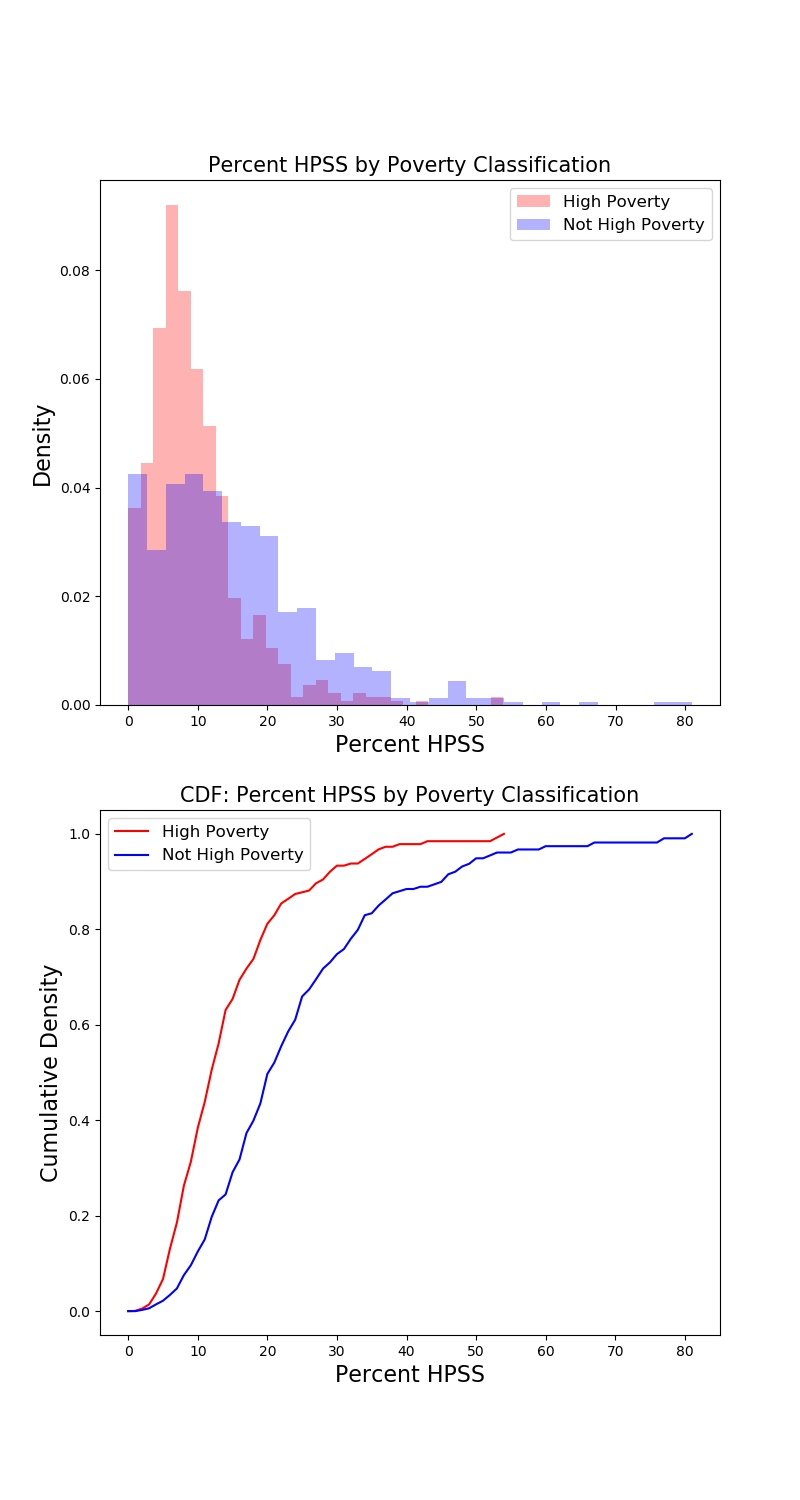
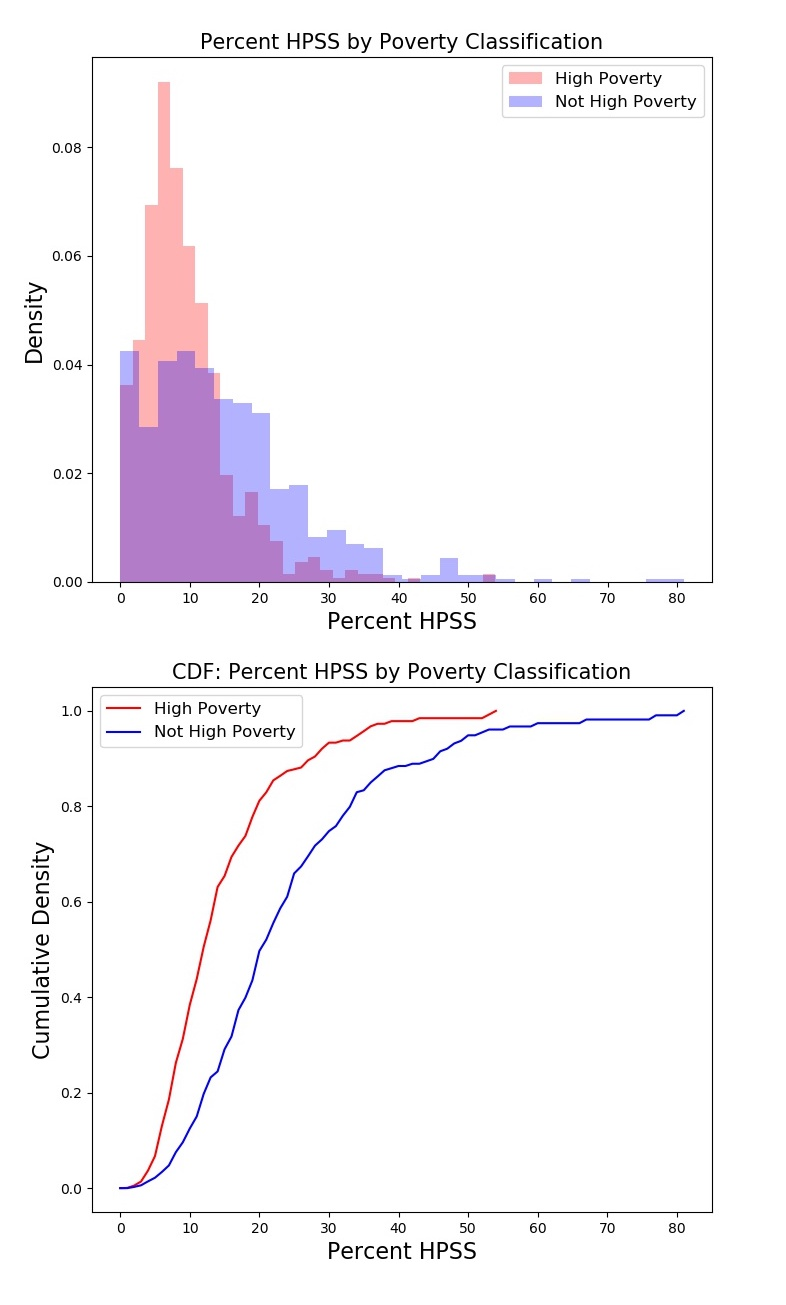
formatting

diff --git a/src/hypo_testing_supermarket.py b/src/hypo_testing_supermarket.py
@@ -19,13 +19,14 @@ colors = ['blue', 'red']
 
 overlay_histograms(ax[0], data, labels, colors, xlabel = 'Vehicle Availability (%)', title = 'Vehicle Availability by Supermarket Access')
 ax[0].set_ylabel('Density', fontsize = 14)
+ax[0].set_xlabel('Vehicle Availability (%)', fontsize = 14)
 
 dfs_c = [sprmkt_access, no_sprmkt_access]
 columns_c = ['pct_vehicle_avail', 'pct_vehicle_avail']
 labels_c = ['Supermarket within 0.5 mi', 'No Supermarket within 0.5 mi']
 
 overlay_plots(ax[1], dfs_c, columns_c, labels_c, colors, 'CDF: Poverty Percentage Based on Supermarket Access')
-ax[1].set_xlabel('Vehicle Availability (%)', fontsize = 20)
+ax[1].set_xlabel('Vehicle Availability (%)', fontsize = 14)
 ax[1].set_ylabel('Cumulative Density', fontsize = 14)
 
 # fig.savefig('../images/pdfandcdf_pct_vehicle_by_supermarket.jpeg')
@@ -39,7 +40,7 @@ fig, ax = plt.subplots(figsize = (10, 10))
 num_bs_samps = 5000
 conf_level = 0.95
 plot_bs_sample_diffs(ax, no_sprmkt_access['pct_vehicle_avail'], sprmkt_access['pct_vehicle_avail'], num_bs_samps, np.mean, conf_level, 'Comparison of Mean Vehicle Availability based on Supermarket Access', 'Difference in Bootstrap Sample Means: \n Sample1: Supermarket Access (within 0.5 mi) | Sample 2: No Supermarket Access')
-
+ax.set_ylabel('Density', fontsize = 14)
 fig.tight_layout()
 # fig.savefig('../images/Veh_avail_supermarkets_compare_means.jpeg')
 plt.show()

diff --git a/README.md b/README.md
@@ -53,7 +53,7 @@ When exploring the data, I quickly became interested in the relationship between
 </p>
 
 
-In further exploration, I thought that total LPSS might follow a Poisson distribution, where the unit of space was the Census Block Group and each "event" was the presence of an LPSS. However, the figure below clearly shows that the data were not generated by a Poisson distribution.
+In further exploration, I thought that total LPSS might follow a Poisson distribution, where the unit of space was the Census Block Group and each "event" was the presence of an LPSS. However, the CDFs of the data versus the models clearly show that the data were not generated from a Poisson distribution.
 
 **Maximum Likelihood Approach:**
 * Poisson model to converge on the variable lambda, approximated by the sample means
